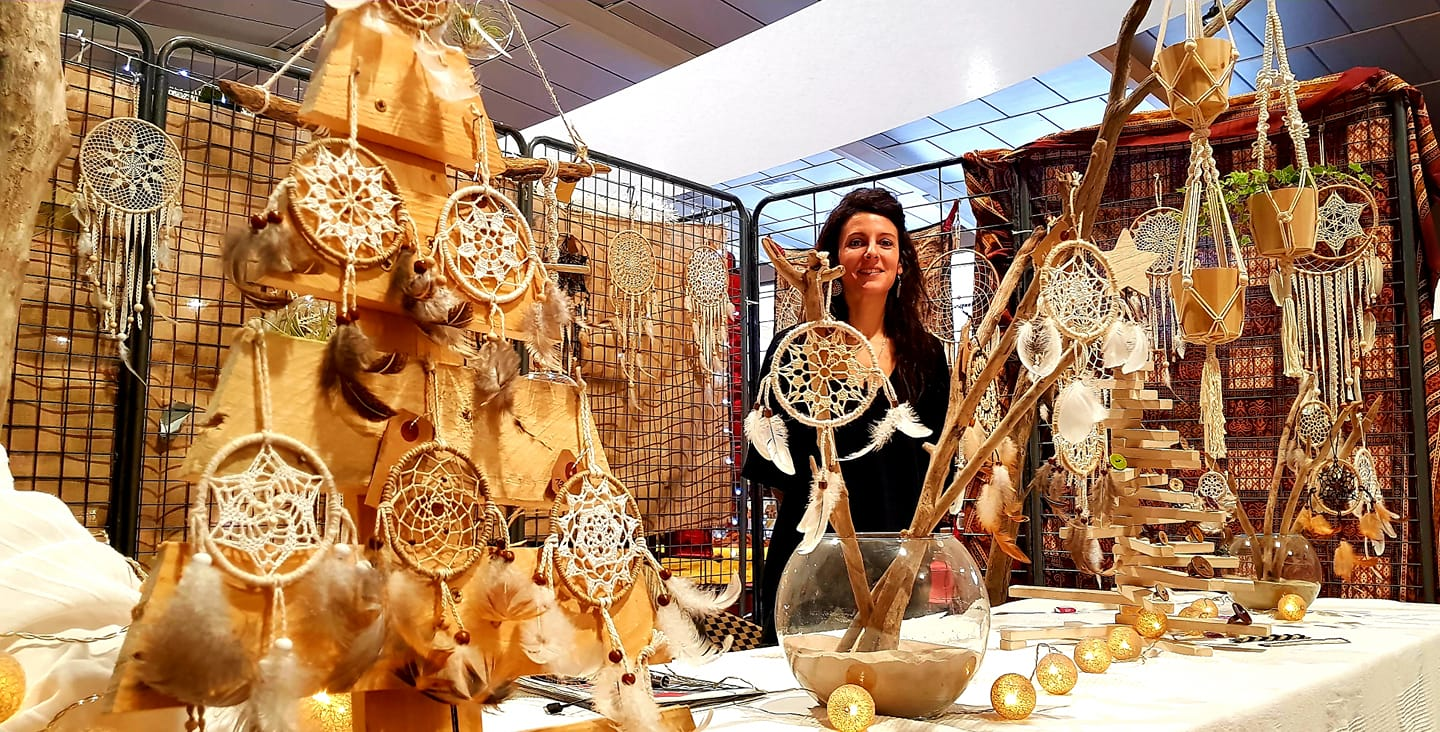
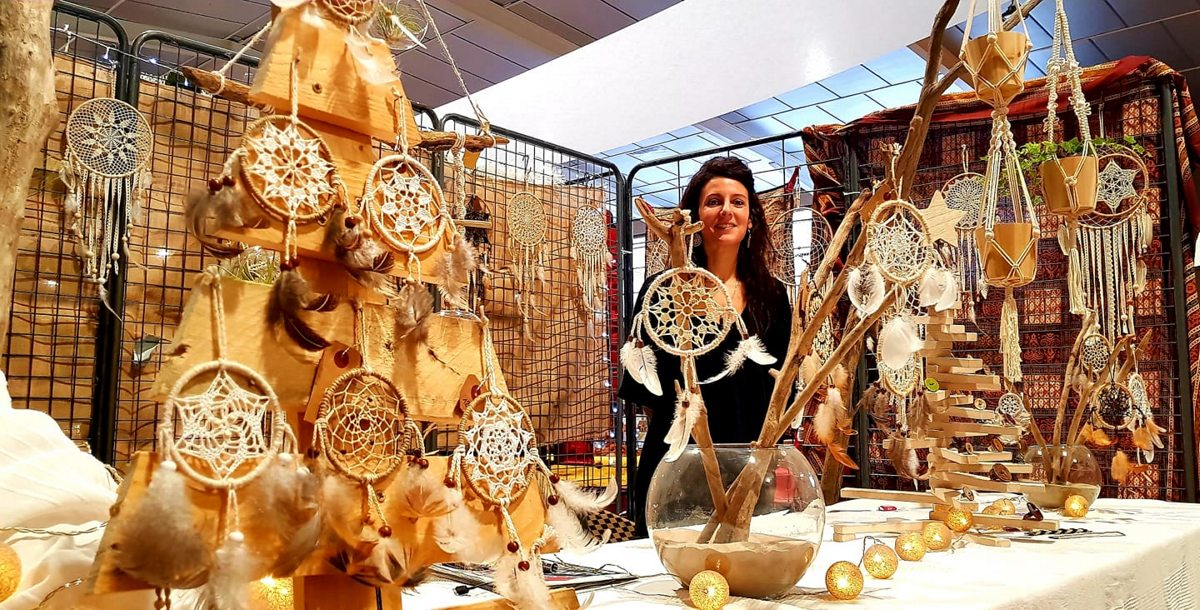
re-rewrite some style and image resize

Changed region(s): [[0.4933, 0.7475, 0.5242, 0.7787]]

diff --git a/shop/static/css/base.css b/shop/static/css/base.css
@@ -52,6 +52,16 @@ main>.main-wrapper{
     background-color: #444;
 }
 
+/* PRODUCT LIST CARD*/
+
+.card{
+    transition: all .8s ease;
+}
+.card:hover{
+    box-shadow: 3px 3px 18px #bbb, -3px -3px 18px #bbb;
+    transform: scale(1.04);
+}
+
 /* product list pagination */
 .pagination>li>a{
     color: #fff !important;
@@ -179,6 +189,7 @@ table>tfoot>tr>td{
     border-radius: 4px;
     margin: 6px;
     color: #fff;
+    font-weight: 400;
 }
 .text-right>a:first-child{
     background-color: #1874CD;
@@ -210,7 +221,8 @@ footer{
 .footer-wrapper>.social-links{
     font-size: 1.4rem;
 }
-.footer-copyright{
+.footer-wrapper>.social-links>a:hover{
+    color: rgb(33, 150, 243);
 }
 
 /* create command */
@@ -265,15 +277,32 @@ footer{
     margin:auto;
 }
 
-.order-form>.validate-order{
-    width: 200px;
-    margin:20px auto;
-    background-color: #00b200;
+.order-form>.btns{
+    display: flex;
+    justify-content: space-around;
+    margin-top: 10px;
+    flex-wrap: wrap-reverse;
+    width: 100%;
+}
+.form-btn{
     border: none;
     padding: 8px;
     color: #fff;
+    margin-top: 10px;
+    width: 200px;
+    font-weight: 400;
 }
-.validate-order:hover{
+
+.order-form>.btns>.validate-order{
+    background-color: #00b200;
+}
+.order-form>.btns>.back{
+    background-color: #1874CD;
+}
+.order-form>.btns>.back>a{
+    color: #fff;
+}
+.form-btn:hover{
     opacity: .84;
 }
 
@@ -298,6 +327,13 @@ footer{
 .thanks>p>span{
     font-size: 1.2rem;
 }
+.check{
+    font-size: 4rem;
+    margin-top: 120px;
+    /*color: #00b200;*/
+}
+
+/* ABOUT */
 
 .about-wrapper{
     background-color:  #e4eeee;

diff --git a/cart/templates/cart/detail.html b/cart/templates/cart/detail.html
@@ -45,7 +45,8 @@
                     </form>
                 </td>
                 <td>
-                    <a href="{% url 'cart:cart_remove' product.id %}">Retirer du Panier</a>
+                    <a href="{% url 'cart:cart_remove' product.id %}"> <i class="fa fa-times" aria-hidden="true"></i>
+                    Retirer du Panier</a>
                 </td>
                 <td class="num">{{ item.price }} €</td>
                 <td class="num">{{ item.total_price }} €</td>
@@ -66,8 +67,10 @@
             </tfoot>
         </table>
         <p class="text-right">
-            <a href="{% url 'shop:product_list' %}" class="button light">  Continuer mes Achats </a>
-            <a href="{% url 'orders:order_create' %}">  Valider mon panier  </a>
+            <a href="{% url 'shop:product_list' %}" class="button light">
+                <i class="fa fa-shopping-basket" aria-hidden="true"></i> Continuer mes Achats </a>
+            <a href="{% url 'orders:order_create' %}">
+                <i class="fa fa-check" aria-hidden="true"></i> Valider mon panier  </a>
         </p>
     </div>
     </div>

diff --git a/shop/templates/shop/product/detail.html b/shop/templates/shop/product/detail.html
@@ -36,9 +36,9 @@
               <a href="">
                 <span class="badge purple p-2 mr-1">{{ product.category }}</span>
               </a>
-              <a href="">
-                <span class="badge blue p-2 mr-1">New</span>
-              </a>
+<!--              <a href="">-->
+<!--                <span class="badge blue p-2 mr-1">New</span>-->
+<!--              </a>-->
 
             </div>
 
@@ -55,7 +55,9 @@
               <!-- Default input -->
                 {{ cart_product_form }}
                 {% csrf_token %}
-              <input type="submit" value="Ajouter au panier" aria-label="Search" class="form-control add-to-cart">
+              <button type="submit" aria-label="Add" class="form-control add-to-cart">
+                <i class="fa fa-cart-plus" aria-hidden="true"></i> Ajouter au panier
+              </button>
 
             </form>
 

diff --git a/orders/templates/orders/order/create.html b/orders/templates/orders/order/create.html
@@ -25,7 +25,14 @@
 
                 <form action="." method="post" class="order-form">
                     {{ form }}
-                    <input type="submit" value="Valider ma Commande" class="validate-order">
+                    <div class="btns">
+                        <button type="" class="back form-btn">
+                            <a href="{% url 'cart:cart_detail' %}">
+                         <i class="fa fa-arrow-left" aria-hidden="true"></i> Mon panier </a> </button>
+                        <button type="submit" class="validate-order form-btn">
+                            <i class="fa fa-check" aria-hidden="true"></i> Valider ma commande
+                        </button>
+                    </div>
                     {% csrf_token %}
                 </form>
             </div>

diff --git a/orders/templates/orders/order/created.html b/orders/templates/orders/order/created.html
@@ -8,11 +8,13 @@
 {% block content %}
 <div class="thanks-wrapper">
     <div class="thanks">
-        <h1>Merci de votre achat</h1>
+        <h1>Merci de votre achat </h1>
         <p>Votre commande a bien été enregistrée, <br>
-            Vos produits vous seront envoyé dans les plus brefs délais. <br>
-            <span>Le numéro de votre commande est :   <strong>{{ order.id }}</strong></span>
+            Vos produits vous seront envoyés dans les plus brefs délais. <br><br>
+            <span>Le numéro de votre commande est :   <strong>{{ order.id }}</strong></span> <br>
+            <i class="fa fa-check-square check" aria-hidden="true"></i>
         </p>
     </div>
 </div>
 {% endblock %}
+

diff --git a/shop/templates/shop/base.html b/shop/templates/shop/base.html
@@ -110,10 +110,10 @@
 
     <!-- Social icons -->
     <div class="social-links">
-      <a href="https://www.facebook.com/latelierchenoa" target="_new">
+      <a href="https://www.facebook.com/latelierchenoa" target="_new" title="Facebook">
         <i class="fab fa-facebook-f mr-3"></i>
       </a>
-            <a href="https://www.instagram.com/latelierchenoa/" target="_new">
+            <a href="https://www.instagram.com/latelierchenoa/" target="_new" title="Instagram">
         <i class="fab fa-instagram mr-3"></i>
       </a>
     </div>

diff --git a/shop/templates/shop/product/list.html b/shop/templates/shop/product/list.html
@@ -190,7 +190,7 @@
 
               <!--Card image-->
               <div class="view overlay">
-                <img src="{% if product.image %}{{ product.image.url }}{% else %}
+                <img src="{% if product.image %}{{ product.smart.url }}{% else %}
                 {% static 'img/no_image.png' %}
                 {% endif %}" class="card-img-top"
                   alt="">

diff --git a/shop/models.py b/shop/models.py
@@ -1,7 +1,8 @@
-
 from django.db import models
 from django.http import HttpResponseRedirect
 from django.urls import reverse
+from imagekit.models import ImageSpecField
+from imagekit.processors import ResizeToFill, SmartResize
 
 
 class Category(models.Model):
@@ -9,7 +10,7 @@ class Category(models.Model):
                             db_index=True)
     slug = models.SlugField(max_length=200,
                             unique=True)
-    
+
     class Meta:
         ordering = ('name',)
         verbose_name = 'category'
@@ -28,12 +29,13 @@ class Product(models.Model):
                                  on_delete=models.CASCADE)
     name = models.CharField(max_length=200, db_index=True)
     slug = models.SlugField(max_length=200, db_index=True)
-    image = models.ImageField(upload_to='products/%Y/%m/%d',  blank=True)
+    image = models.ImageField(upload_to='products/%Y/%m/%d', blank=True)
     description = models.TextField(blank=True)
     price = models.DecimalField(max_digits=10, decimal_places=2)
     available = models.BooleanField(default=True)
     created = models.DateTimeField(auto_now_add=True)
     updated = models.DateTimeField(auto_now=True)
+    smart = ImageSpecField(source='image', processors=[SmartResize(246, 268)])
 
     class Meta:
         ordering = ('name',)
